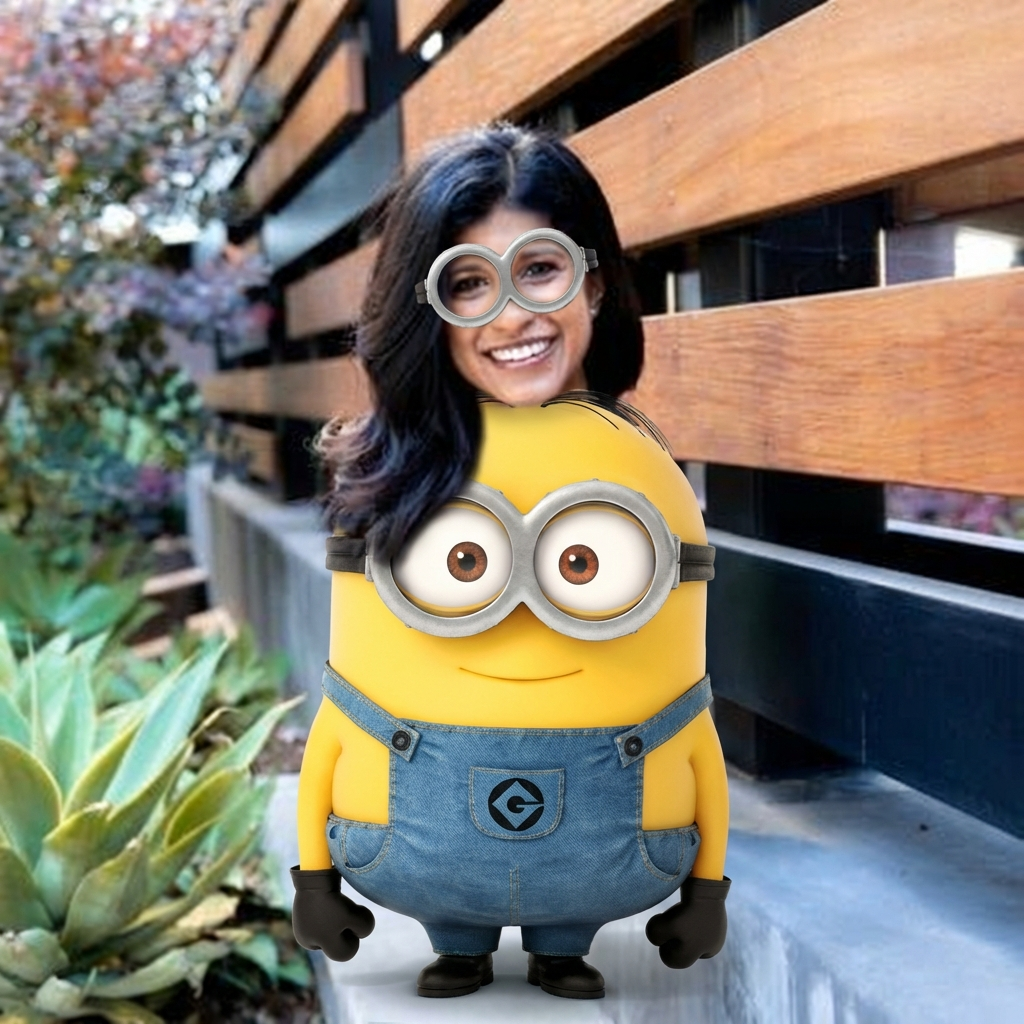
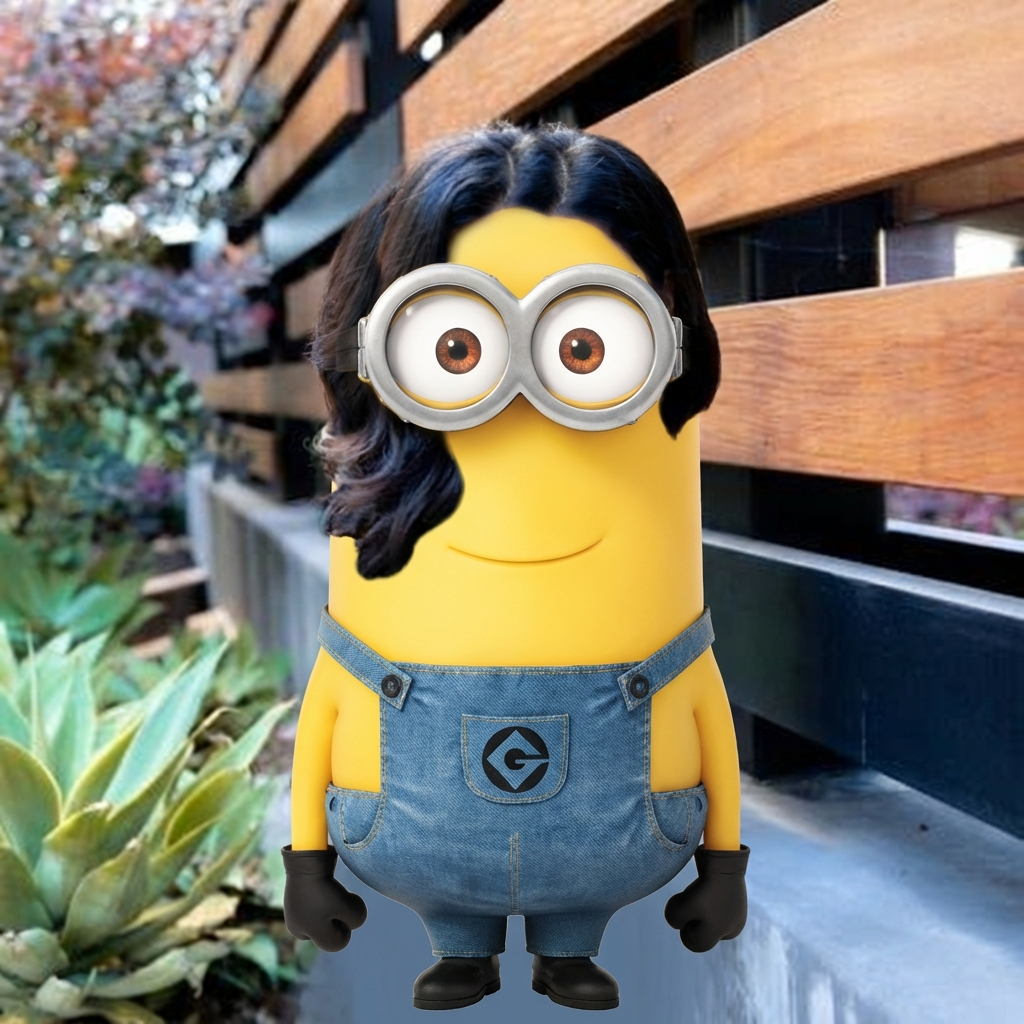
Update Tara's minion (v2 per request) + Add Lonnie Liggins to squad 🍌

Changed region(s): [[0.25, 0.0938, 0.7812, 1.0], [0.75, 0.5938, 0.7812, 0.6562]]

diff --git a/src/app/minion-squad/page.tsx b/src/app/minion-squad/page.tsx
@@ -153,6 +153,13 @@ const minionSquad = [
     description: 'Said "me as well" and joined the banana family! Quick to the Squad, forever yellow! 🍌✨',
     tweetUrl: 'https://x.com/davehappyminion/status/2019587548054712499',
     image: '/minion-squad/pravijn.png'
+  },
+  {
+    handle: '@lonnieligginsJR',
+    name: 'Lonnie Liggins',
+    description: 'The 3⃣ legend! Stepped up, got transformed, became yellow. Another one joins the banana revolution! 🏀💛',
+    tweetUrl: 'https://x.com/davehappyminion/status/2019590091983766008',
+    image: '/minion-squad/lonnie.png'
   }
 ];
 
